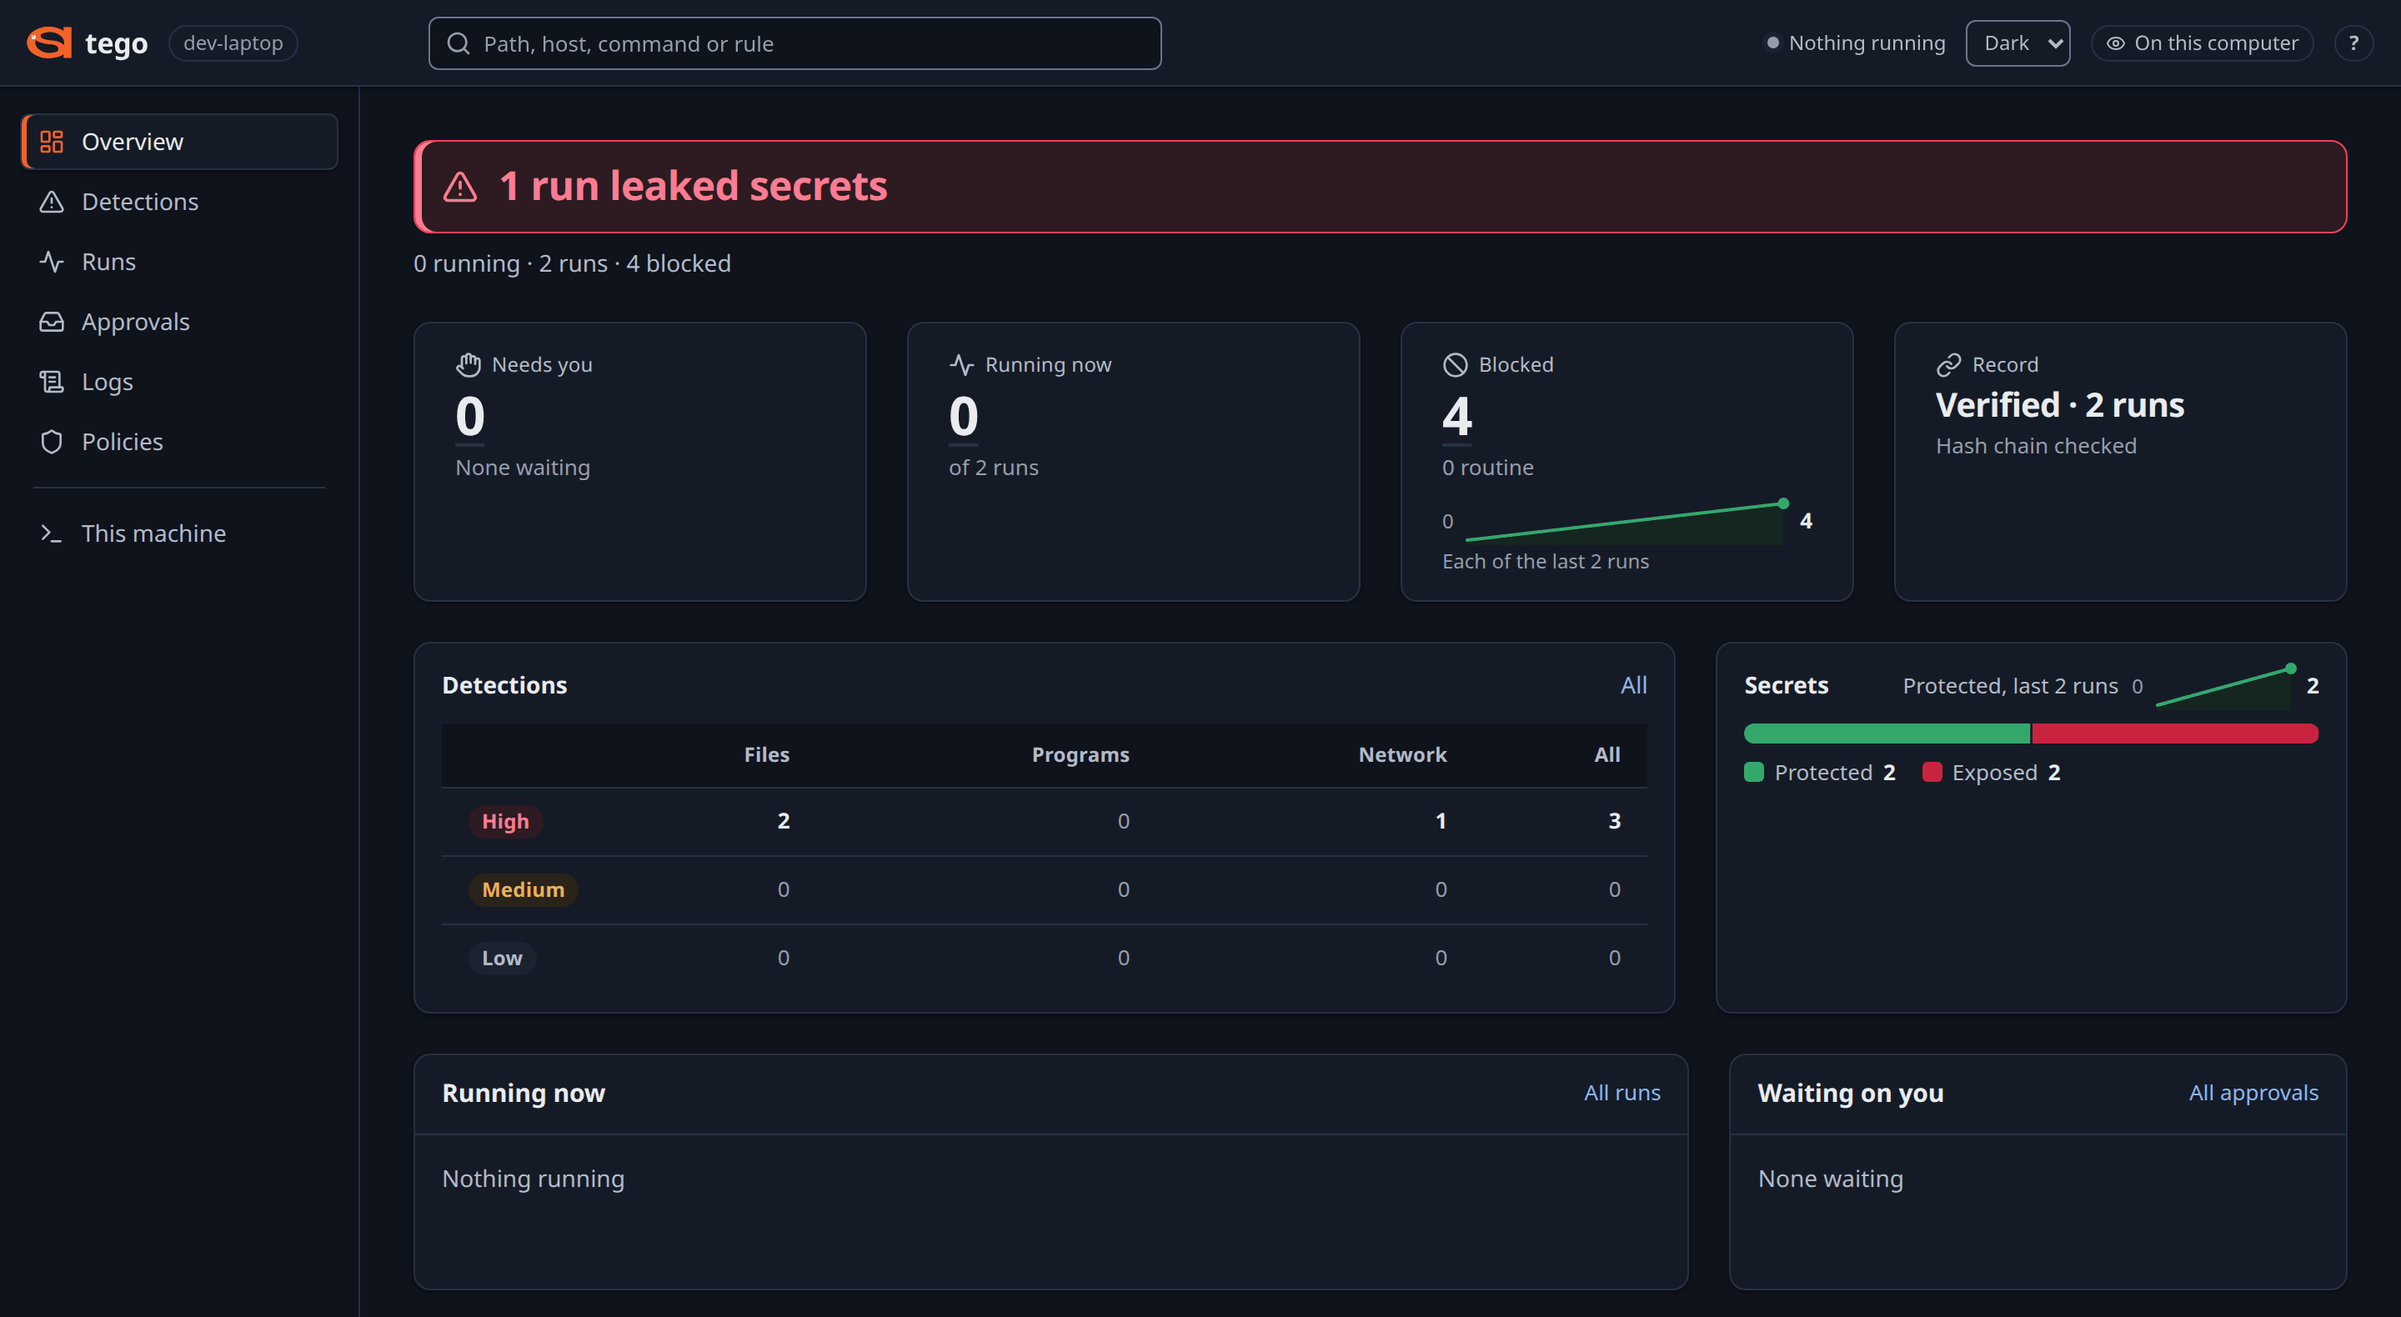
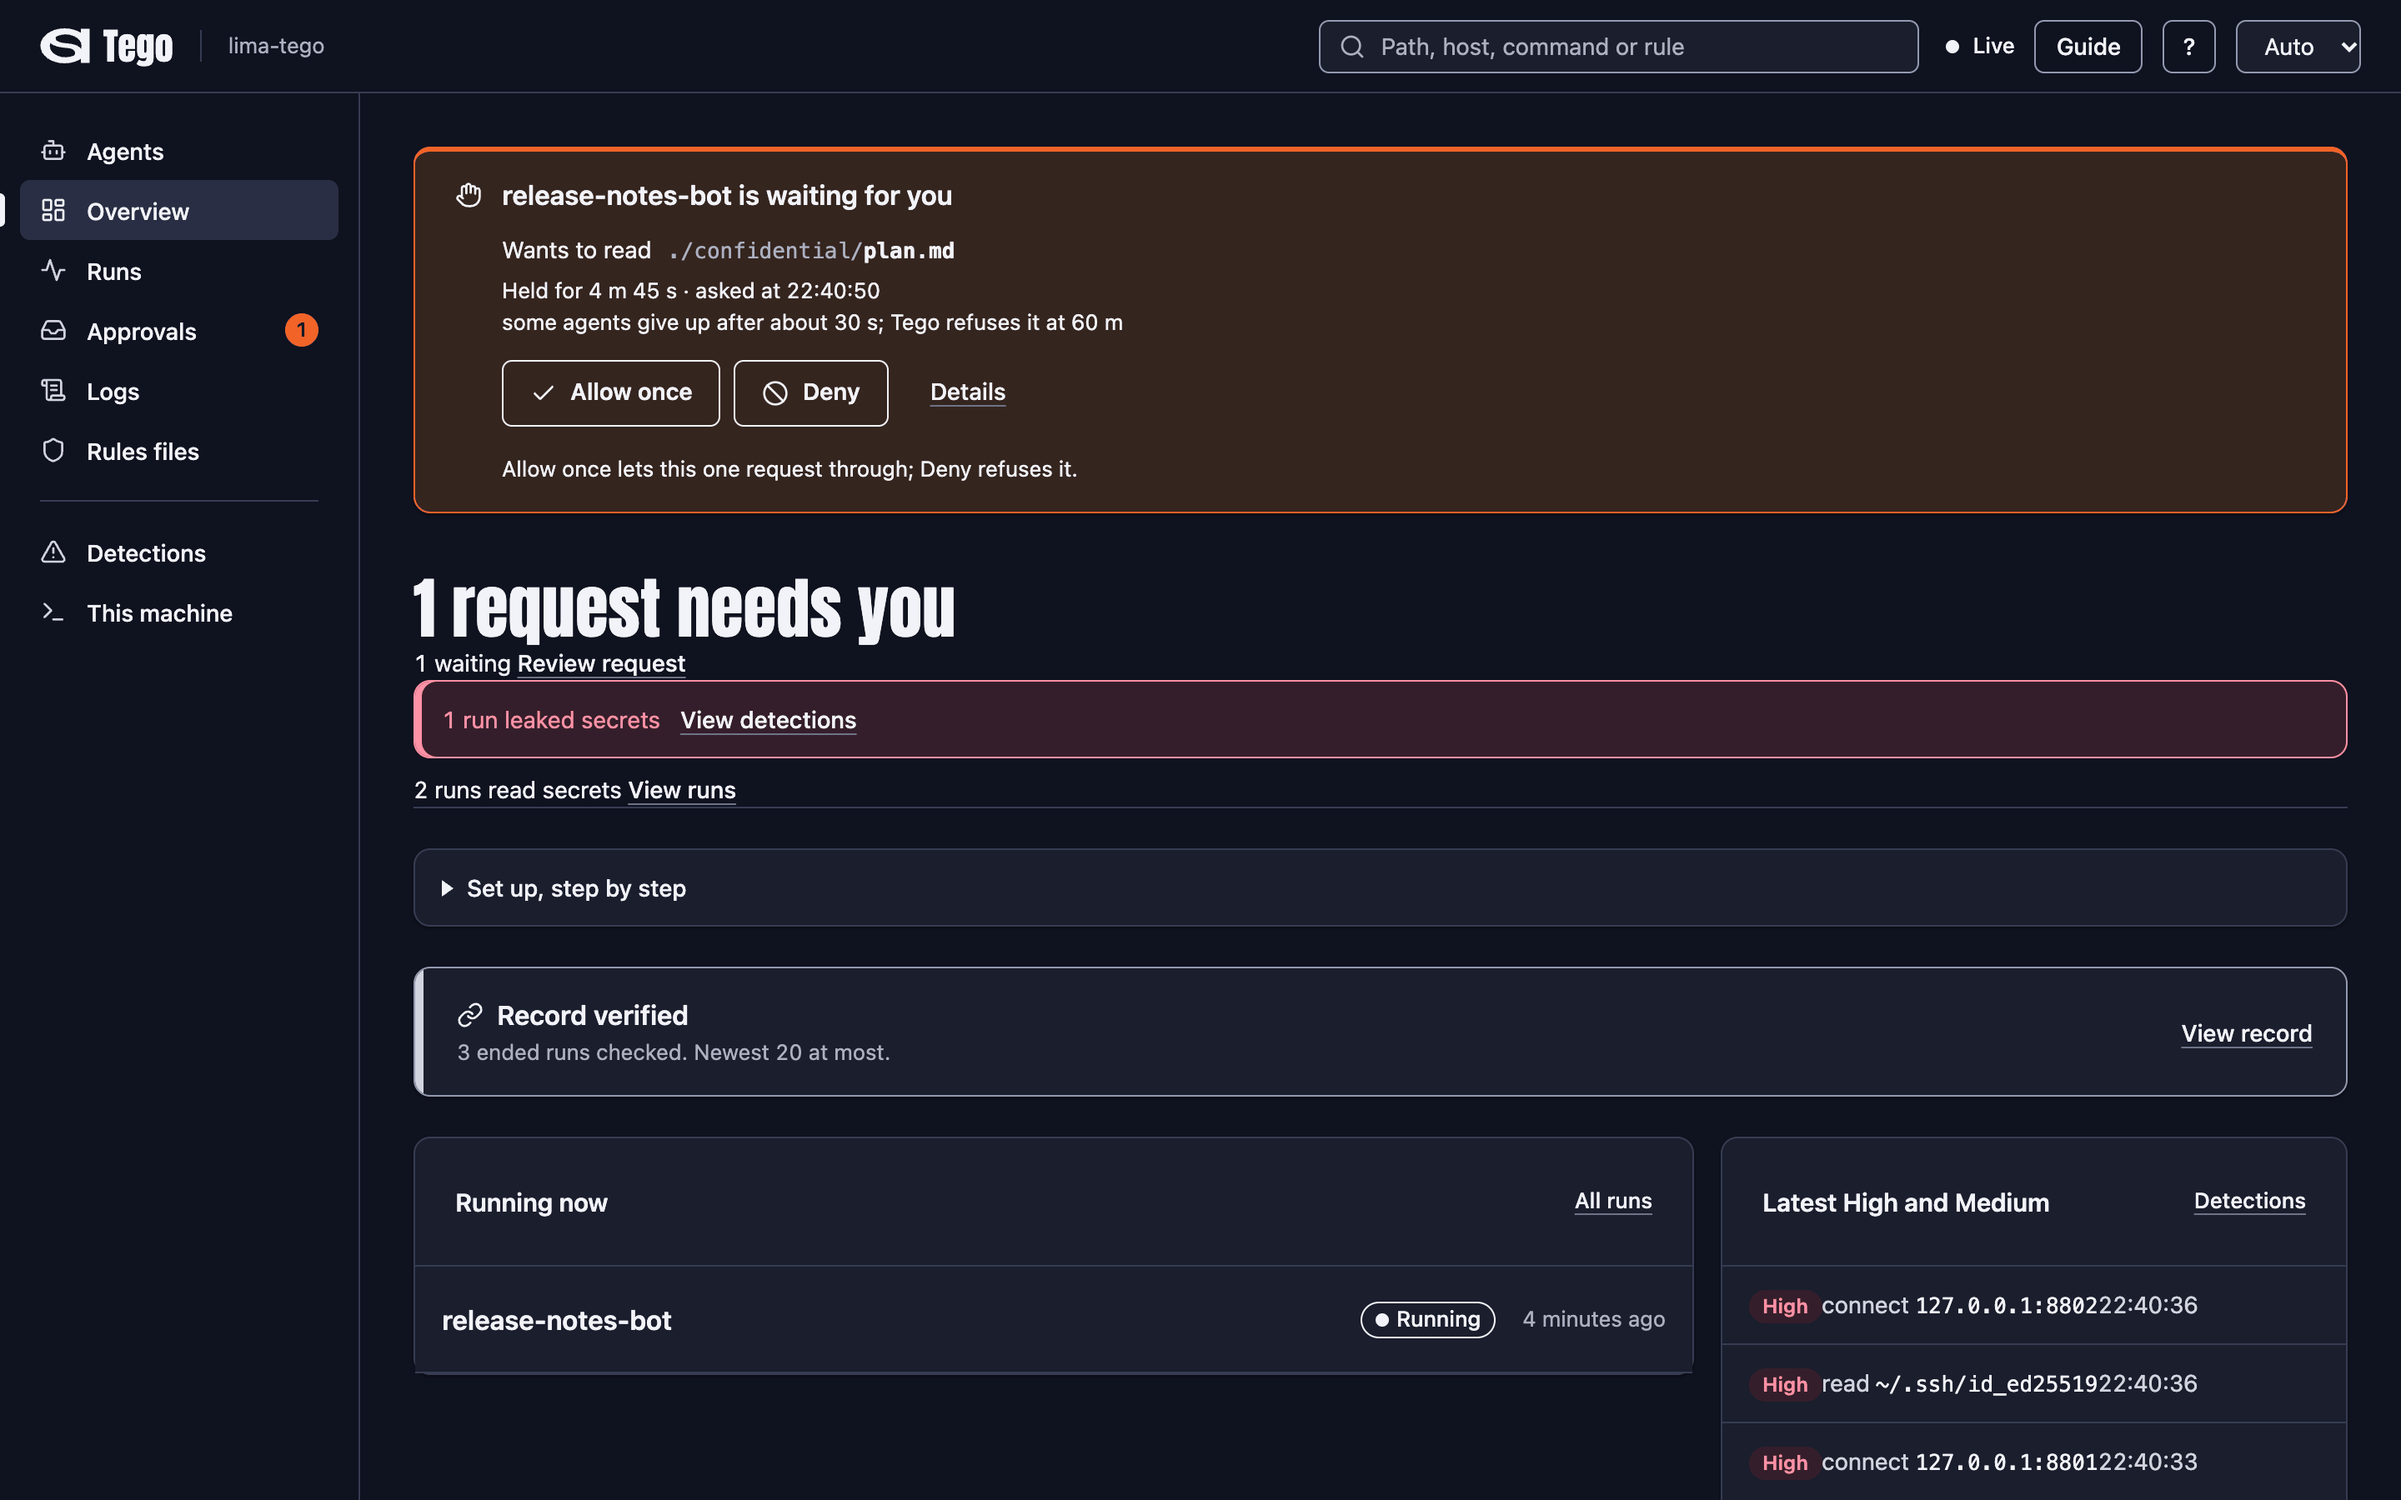
docs: fresh v0.2.0 dashboard screenshots; plain headings and Edit rules file on Dashboard
The Dashboard page shows seven screens, light and dark: Overview, a session's
Timeline and Refused tabs, Approvals, Detections, This machine and a rules file.
The README's Overview pair is retaken from the same v0.2.0 dashboard.

diff --git a/docs/site/dashboard.md b/docs/site/dashboard.md
@@ -8,7 +8,7 @@ order: 6
 
 The dashboard is a web page on your own machine that shows every session, what Tego refused, and the questions waiting for you. You open it with `tego dashboard`. It listens on `127.0.0.1:8484` and only you can sign in to it.
 
-## Open it
+## Open the dashboard
 
 Run this in a terminal as yourself, not with `sudo` and not inside a session:
 
@@ -30,7 +30,7 @@ Open it, or start a new one?
 
 **Open it** keeps your open tabs signed in. **Start a new one** stops the running dashboard and signs out its tabs. With no terminal to ask in, `tego dashboard` reuses the running one.
 
-### Run one in the foreground
+### Run it in the foreground
 
 On Linux, `tego serve` starts a dashboard in the current terminal, and Ctrl-C stops it:
 
@@ -47,7 +47,7 @@ tego serve --open
 
 If port 8484 is busy, see [Troubleshooting](/docs/troubleshooting/).
 
-## The pages
+## What each page shows
 
 The menu shows Agents, Overview, Runs, Approvals and Logs. **More** holds Rules files, Detections and This machine.
 
@@ -63,7 +63,7 @@ The menu shows Agents, Overview, Runs, Approvals and Logs. **More** holds Rules 
   - **Unused**: rules the session was given and never used.
 - **Approvals**: questions waiting for an answer, and a History tab of past answers. [Approvals](/docs/approvals/) explains the buttons.
 - **Logs**: every line across every session, with search, filters and a CSV download.
-- **Rules files**: the rules files in use, in plain sentences, with **New rules file**, and **Edit contract** on each file.
+- **Rules files**: the rules files in use, in plain sentences, with **New rules file**, and **Edit rules file** on each file.
 - **Detections**: refused actions that matter, ranked High, Medium, Low and Routine.
 - **This machine**: "Can this machine enforce rules?", with the [protection levels](/docs/tiers/) past sessions used here. Run `tego machine check` for a current answer.
 - **Guide**: a step-by-step setup tour, from checking the machine to enforcing an agent's rules.
@@ -71,7 +71,43 @@ The menu shows Agents, Overview, Runs, Approvals and Logs. **More** holds Rules 
 
 With `tego serve --preview`, the menu also shows **MCP tools** and **Model routes**. [MCP tools](/docs/mcp-tools/) and [Model routes](/docs/model-routes/) cover them.
 
-## Act on a running session
+<figure class="shot">
+<a class="shot-frame only-light" href="/assets/docs/tego-dashboard-overview-light.png"><img src="/assets/docs/dashboard/overview-light.png" width="1440" height="900" loading="lazy" decoding="async" alt="The dashboard Overview in its light theme: a card reading release-notes-bot is waiting for you, wants to read ./confidential/plan.md, with Allow once and Deny; the heading 1 request needs you; a red line reading 1 run leaked secrets; Record verified, 3 ended runs checked; and release-notes-bot running now."></a>
+<a class="shot-frame only-dark" href="/assets/docs/tego-dashboard-overview-dark.png"><img src="/assets/docs/dashboard/overview-dark.png" width="1440" height="900" loading="lazy" decoding="async" alt="The dashboard Overview in its dark theme: a card reading release-notes-bot is waiting for you, wants to read ./confidential/plan.md, with Allow once and Deny; the heading 1 request needs you; a red line reading 1 run leaked secrets; Record verified, 3 ended runs checked; and release-notes-bot running now."></a>
+<figcaption><b>Overview.</b> What needs you first, then questions waiting, sessions running now, refused actions and the record check.</figcaption>
+</figure>
+
+<figure class="shot">
+<a class="shot-frame only-light" href="/assets/docs/dashboard/session-timeline-light.png"><img src="/assets/docs/dashboard/session-timeline-light.png" width="1440" height="900" loading="lazy" decoding="async" alt="The page of the ended session notes-app in its light theme: a red banner reading Protected: 1 secret read and 1 send to 127.0.0.1:8801 refused, the counts 2 refused and 347 events, a Verified, 347 lines badge, the tabs Timeline, Refused, Processes, Receipt, Tighten and Unused, and the newest timeline lines marked Recorded and Allowed."></a>
+<a class="shot-frame only-dark" href="/assets/docs/dashboard/session-timeline-dark.png"><img src="/assets/docs/dashboard/session-timeline-dark.png" width="1440" height="900" loading="lazy" decoding="async" alt="The page of the ended session notes-app in its dark theme: a red banner reading Protected: 1 secret read and 1 send to 127.0.0.1:8801 refused, the counts 2 refused and 347 events, a Verified, 347 lines badge, the tabs Timeline, Refused, Processes, Receipt, Tighten and Unused, and the newest timeline lines marked Recorded and Allowed."></a>
+<figcaption><b>A session, Timeline tab.</b> The session's verdict, its record check and every line of its record, newest first.</figcaption>
+</figure>
+
+<figure class="shot">
+<a class="shot-frame only-light" href="/assets/docs/dashboard/session-refused-light.png"><img src="/assets/docs/dashboard/session-refused-light.png" width="1440" height="1065" loading="lazy" decoding="async" alt="The Refused tab of the session notes-app in its light theme: 2 High, 0 Medium, 0 Low, then two High refusals: open of the project's .env file, marked Secret and refused by the rule Never read, and a connection to 127.0.0.1:8801 marked After a secret read."></a>
+<a class="shot-frame only-dark" href="/assets/docs/dashboard/session-refused-dark.png"><img src="/assets/docs/dashboard/session-refused-dark.png" width="1440" height="1065" loading="lazy" decoding="async" alt="The Refused tab of the session notes-app in its dark theme: 2 High, 0 Medium, 0 Low, then two High refusals: open of the project's .env file, marked Secret and refused by the rule Never read, and a connection to 127.0.0.1:8801 marked After a secret read."></a>
+<figcaption><b>A session, Refused tab.</b> Each refused action with its severity and the rule that refused it.</figcaption>
+</figure>
+
+<figure class="shot">
+<a class="shot-frame only-light" href="/assets/docs/dashboard/approvals-light.png"><img src="/assets/docs/dashboard/approvals-light.png" width="1440" height="1189" loading="lazy" decoding="async" alt="The Approvals page in its light theme: 1 request waiting, a card reading Let release-notes-bot read this file? with the exact target confidential/plan.md, why it asked (your rules ask before any read under ./confidential/plan.md), the time left, Allow once, Deny and More choices."></a>
+<a class="shot-frame only-dark" href="/assets/docs/dashboard/approvals-dark.png"><img src="/assets/docs/dashboard/approvals-dark.png" width="1440" height="1189" loading="lazy" decoding="async" alt="The Approvals page in its dark theme: 1 request waiting, a card reading Let release-notes-bot read this file? with the exact target confidential/plan.md, why it asked (your rules ask before any read under ./confidential/plan.md), the time left, Allow once, Deny and More choices."></a>
+<figcaption><b>Approvals.</b> A read waiting for an answer, with the rule that asked.</figcaption>
+</figure>
+
+<figure class="shot">
+<a class="shot-frame only-light" href="/assets/docs/dashboard/detections-light.png"><img src="/assets/docs/dashboard/detections-light.png" width="1440" height="900" loading="lazy" decoding="async" alt="The Detections page in its light theme: a red banner reading Secrets left: .env sent to 127.0.0.1:8801 for a watched-only session, the filters High 4, Medium 0 and Low 0, and a table of four High refusals: connections to 127.0.0.1:8802 and 127.0.0.1:8801 and reads of ~/.ssh/id_ed25519 and the notes-app .env file, each with its agent and time."></a>
+<a class="shot-frame only-dark" href="/assets/docs/dashboard/detections-dark.png"><img src="/assets/docs/dashboard/detections-dark.png" width="1440" height="900" loading="lazy" decoding="async" alt="The Detections page in its dark theme: a red banner reading Secrets left: .env sent to 127.0.0.1:8801 for a watched-only session, the filters High 4, Medium 0 and Low 0, and a table of four High refusals: connections to 127.0.0.1:8802 and 127.0.0.1:8801 and reads of ~/.ssh/id_ed25519 and the notes-app .env file, each with its agent and time."></a>
+<figcaption><b>Detections.</b> Refused actions that matter, ranked by severity, and any session that let a secret leave.</figcaption>
+</figure>
+
+<figure class="shot">
+<a class="shot-frame only-light" href="/assets/docs/dashboard/machine-light.png"><img src="/assets/docs/dashboard/machine-light.png" width="1440" height="900" loading="lazy" decoding="async" alt="The This machine page in its light theme: the heading Can this machine enforce rules?, a card saying Basic worked in a recorded run and suggesting tego machine check, and Protection checks listing Basic as used before and Plus and Max as not checked."></a>
+<a class="shot-frame only-dark" href="/assets/docs/dashboard/machine-dark.png"><img src="/assets/docs/dashboard/machine-dark.png" width="1440" height="900" loading="lazy" decoding="async" alt="The This machine page in its dark theme: the heading Can this machine enforce rules?, a card saying Basic worked in a recorded run and suggesting tego machine check, and Protection checks listing Basic as used before and Plus and Max as not checked."></a>
+<figcaption><b>This machine.</b> The protection levels past sessions used here, and the command that checks the machine now.</figcaption>
+</figure>
+
+## Stop or pause a session
 
 A running session's page has these buttons:
 
@@ -81,13 +117,19 @@ A running session's page has these buttons:
 
 [Session control](/docs/session-control/) has the same actions as commands.
 
-## Change rules
+## Change a rules file
 
-On **Rules files**, open a rules file and choose **Edit contract**. Edit it, check the result, then save:
+On **Rules files**, open a rules file and choose **Edit rules file**. Edit it, check the result, then save:
 
 - A saved change applies from the next session.
 - **Apply now to** a running session places the change on that session too, within about a second.
 - **Undo**, from the change's History, puts the previous text back.
+
+<figure class="shot">
+<a class="shot-frame only-light" href="/assets/docs/dashboard/rules-file-light.png"><img src="/assets/docs/dashboard/rules-file-light.png" width="1440" height="900" loading="lazy" decoding="async" alt="The rules file of notes-app in its light theme: Basic (Landlock), the buttons New rules file and Edit rules file, Can read any other file except the ones under Never reads, and a Can change table listing ./src/, ./tests/, ./libs/ and ./tmp/ as Allowed and enforced by the operating system, with the number of hits in the session and the line of agent.yaml each comes from."></a>
+<a class="shot-frame only-dark" href="/assets/docs/dashboard/rules-file-dark.png"><img src="/assets/docs/dashboard/rules-file-dark.png" width="1440" height="900" loading="lazy" decoding="async" alt="The rules file of notes-app in its dark theme: Basic (Landlock), the buttons New rules file and Edit rules file, Can read any other file except the ones under Never reads, and a Can change table listing ./src/, ./tests/, ./libs/ and ./tmp/ as Allowed and enforced by the operating system, with the number of hits in the session and the line of agent.yaml each comes from."></a>
+<figcaption><b>A rules file.</b> Its rules in plain sentences, how many times each applied, and <b>Edit rules file</b>.</figcaption>
+</figure>
 
 A session in Locked mode, the default, refuses changes that loosen its rules while it runs. [Live changes](/docs/live-changes/) explains Locked and Adjustable mode.
 
